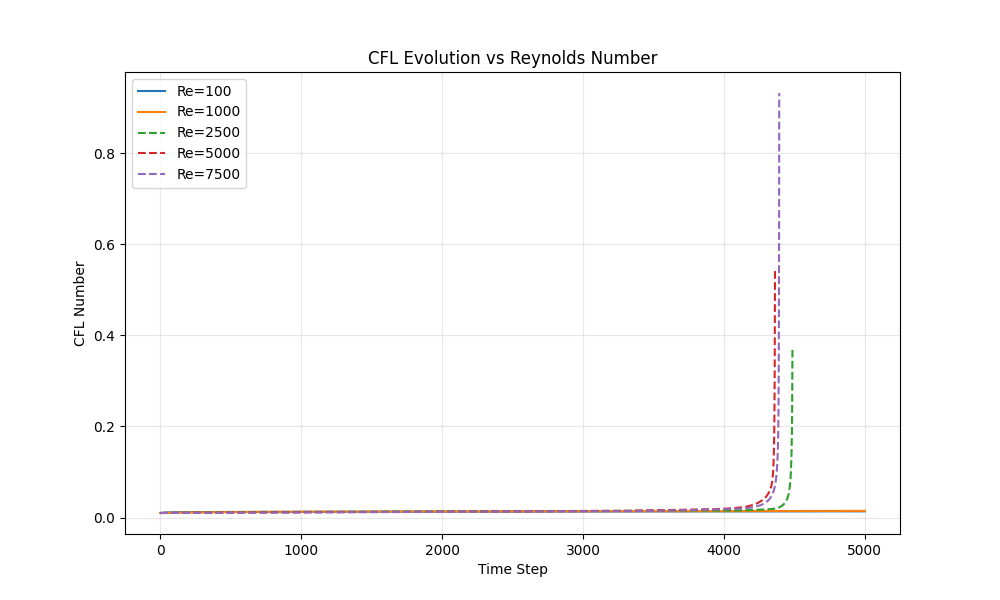
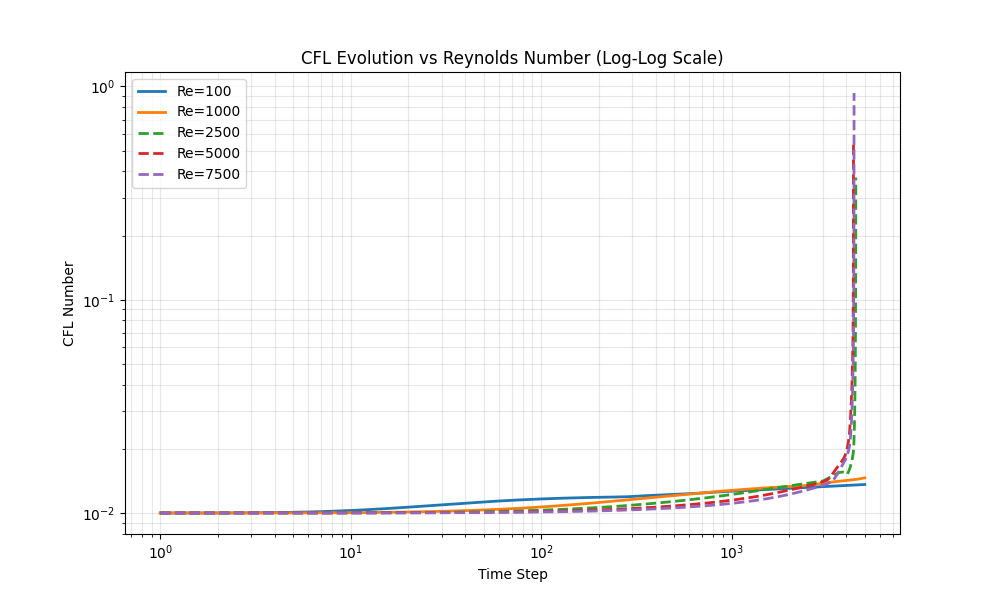
Update CFL plot to use log-log scale
Changed stability_cfl.png to use logarithmic axes for both x and y, making instability transitions much more visible when CFL number explodes.

diff --git a/simulations/cavity_flow/study_reynolds_stability.py b/simulations/cavity_flow/study_reynolds_stability.py
@@ -124,17 +124,19 @@ def main():
     plt.grid(True, alpha=0.3)
     plt.savefig(os.path.join(plots_dir, "stability_velocity.png"))
     
-    # 2. CFL vs Time
+    # 2. CFL vs Time (Log-Log scale)
     plt.figure(figsize=(10, 6), dpi=100)
     for Re, data in results.items():
         ls = "-" if not data["crashed"] else "--"
-        plt.plot(data["cfl"], label=f"Re={Re}", linestyle=ls)
+        # Use range(1, len+1) for x-axis to avoid log(0)
+        time_steps = range(1, len(data["cfl"]) + 1)
+        plt.loglog(time_steps, data["cfl"], label=f"Re={Re}", linestyle=ls, linewidth=2)
         
     plt.xlabel("Time Step")
     plt.ylabel("CFL Number")
-    plt.title("CFL Evolution vs Reynolds Number")
+    plt.title("CFL Evolution vs Reynolds Number (Log-Log Scale)")
     plt.legend()
-    plt.grid(True, alpha=0.3)
+    plt.grid(True, alpha=0.3, which='both')
     plt.savefig(os.path.join(plots_dir, "stability_cfl.png"))
     
     print("Done.")
